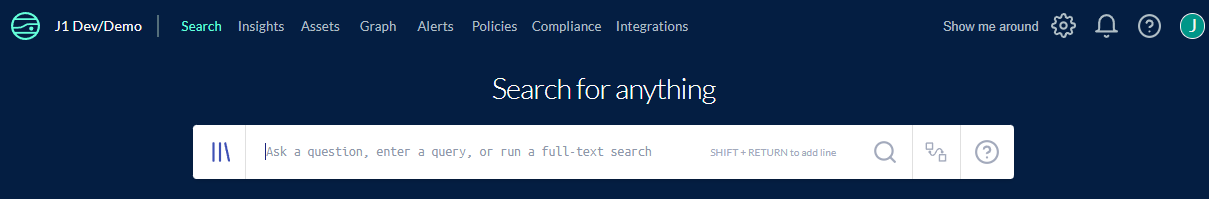
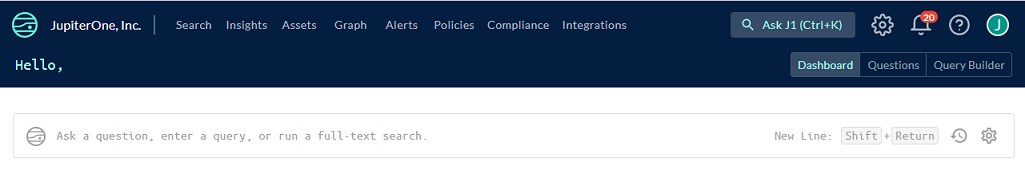
DOC-188 New screenshots

diff --git a/knowledgeBase/getting-started_and-admin/J1-what-is-it.md b/knowledgeBase/getting-started_and-admin/J1-what-is-it.md
@@ -4,12 +4,6 @@ JupiterOne (J1) is a cloud-native security platform that connects across your si
 
 ## Sign In and Search
 
-When you first sign in to J1, you land on the Search page, the center of all your activities. In the To-Do tab, you see the status of your onboarding items and any other actions that J1 recommends that you complete, such as enabling the playground or configuring your compliance frameworks. 
-
-
-
-![](../assets/home-todo.png)
-
 Over time, J1 collects key performance indicator (KPI) information for your organization and displays it in a dashboard. Your dashboard enables you to quickly see what has changed in your security program, the status of your environment, and where your compliance gaps are.
 
 
@@ -32,7 +26,7 @@ The first step in using J1 is to bring your data into J1. There are numerous rea
 
 All of the J1 products that assist you in all the major components of security management are available from the top navigation bar.
 
-![](../assets/top-nav-bar.png)
+![](../assets/search-home.png)
 
 ### Assets
 
